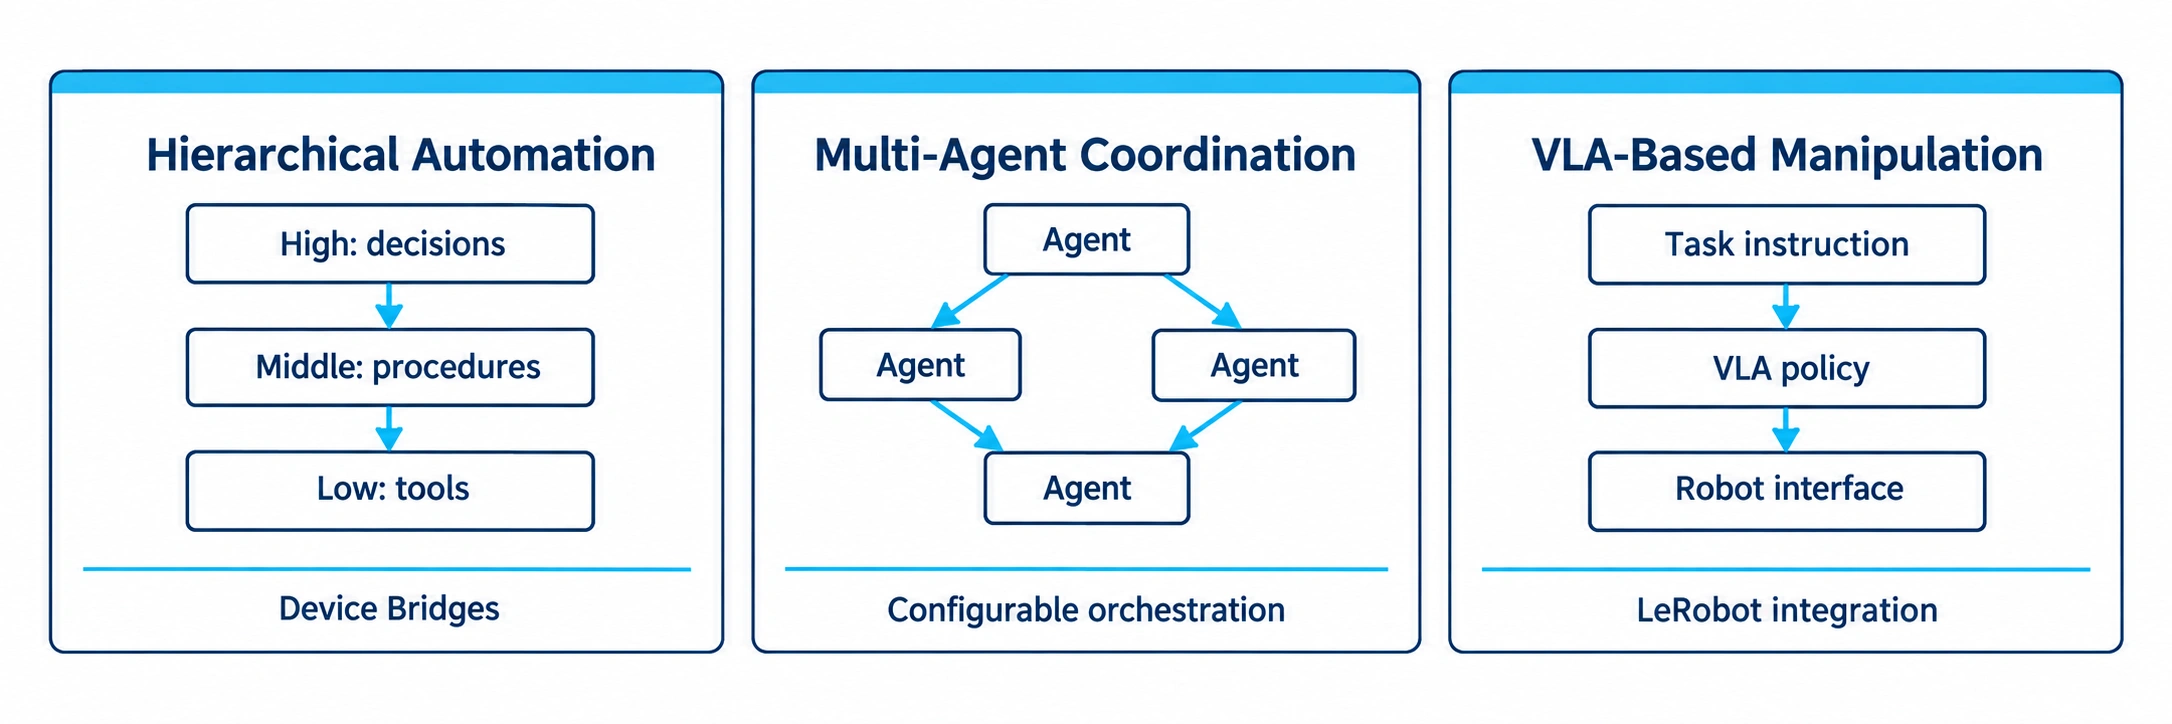
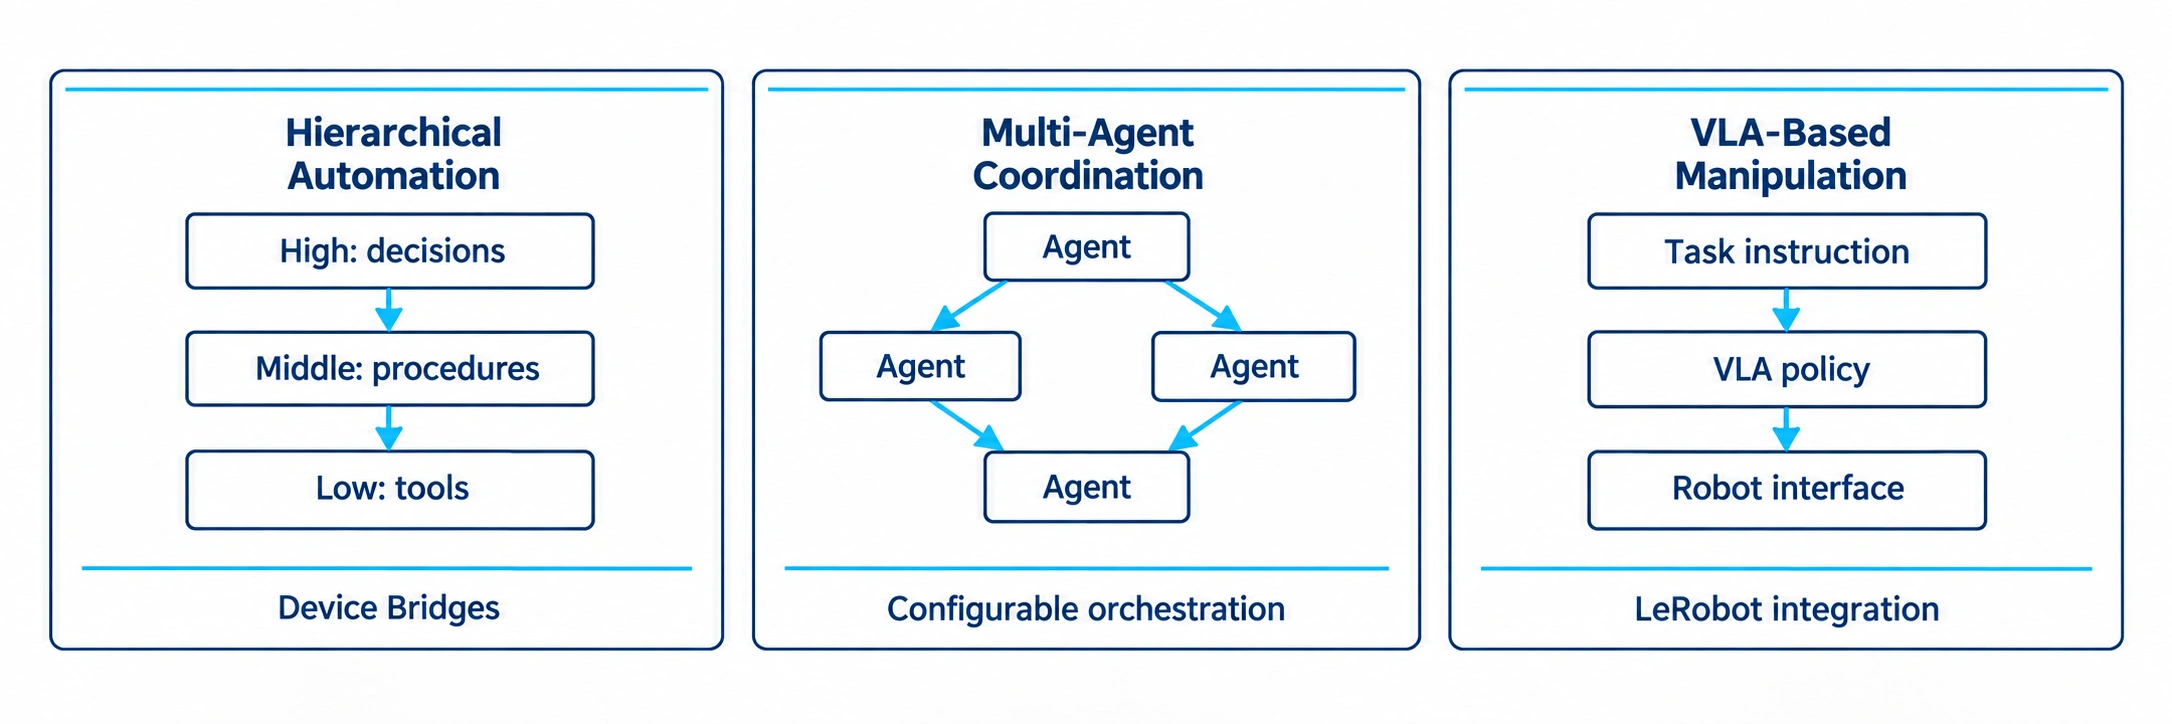
docs: refine README heading hierarchy and contribution typography

diff --git a/docs/assets/presentation/README.md b/docs/assets/presentation/README.md
@@ -25,7 +25,7 @@ images or numerical results were synthesized for the paper evidence package.
 |---|---|---|
 | Multi-agent laboratory transformation | [Sunburst prompt](laboratory-transformation-sunburst.txt) · [Flat-style refinement](laboratory-transformation-sunburst-refinement.txt) · [Diagonal layout and bullet alignment](laboratory-transformation-sunburst-diagonal.txt) | Root README Graphical Abstract, Korean overview and paper introduction; approved image retained unchanged |
 | SDL adoption barriers | [Motivation prompt](motivation-contribution-sunburst.jsonl), entry 1 | Root README Motivation; conceptual barriers, not a quantitative cost comparison |
-| Three system contributions | [Horizontal three-module redesign](system-contribution-horizontal.txt) | Root README immediately above the contribution table; three parallel contributions, not sequential runtime stages |
+| Three system contributions | [Horizontal three-module redesign](system-contribution-horizontal.txt) · [Two-line typography refinement](system-contribution-typography.txt) | Root README immediately above the contribution table; three parallel contributions, not sequential runtime stages |
 | Framework overview, agent architecture, integration architecture | [Sunburst paper-figure prompts](sunburst-paper-figures.jsonl), entries 1–3 | Root README System Architecture |
 | Ten agent role diagrams | [Sunburst paper-figure prompts](sunburst-paper-figures.jsonl), entries 4–13; [Design handoff refinement](sunburst-design-handoff-refinement.txt) | [Agent references](../../agents/README.md); existing image paths retained |
 
@@ -48,7 +48,9 @@ Graphical Abstract or the three detailed architecture overviews.
 - Role-specific layouts: peer-agent orchestration, terminal workflow review, and parallel FEM are not forced into one sequential template.
 
 The System Contribution strip intentionally uses three equal outlined modules,
-as requested for this figure only. Other paper figures retain their open layouts.
+as requested for this figure only. Matching two-line headings, aligned diagram
+baselines, and thin cyan accent rules establish its typographic hierarchy.
+Other paper figures retain their open layouts.
 
 The prompts were checked against the corresponding agent references. They retain
 optimizer authority over coordinates, capture before Vision review, terminated

diff --git a/README.md b/README.md
@@ -70,7 +70,9 @@ equipment and working environment.
 
 *Multi-agent orchestration connects existing equipment through device bridges.*
 
-## Motivation — Barriers to Self-Driving Laboratories
+## Motivation
+
+<sub>Barriers to adopting self-driving laboratories.</sub>
 
 Building a self-driving laboratory remains a costly integration project, not
 simply a matter of adding an AI model. Existing laboratories contain useful
@@ -109,12 +111,12 @@ simple hardware, advanced software coordination, and experiment feedback through
 explicit agent handoffs. The current [experimental cycle](docs/paper/03_closed_loop_method.md)
 is one configured application of that architecture.
 
-### System Architecture
+## System Architecture
 
 The framework separates coordination between agents, responsibility within
 agents, and integration with laboratory equipment.
 
-#### Framework — Configurable Orchestration
+### Framework
 
 The Orchestrator translates research intent into agent tasks and coordinates
 their results through a configurable Orchestration Plan. Specialist agents
@@ -125,7 +127,7 @@ contribute capabilities to that plan rather than defining one fixed sequence.
 - Task routing and specialist-agent coordination — [System architecture](docs/paper/02_system_architecture.md).
 - Plan configuration and execution monitoring — [Runtime IDE](docs/runtime/runtime_ide.md).
 
-#### Agents — Decisions, Procedures, and Tools
+### Agents
 
 High-Level control owns task decisions, Middle-Level control supervises
 procedures, and Low-Level tools perform execution. Guardian/Safety and
@@ -136,7 +138,7 @@ stages. LLM decisions use the owning agent's permitted tools and evidence.
 
 - Responsibility levels and shared evidence — [Control model](docs/runtime/three_level_control_model.md).
 
-#### Integration — Reusing Existing Equipment
+### Integration
 
 Agent procedures reach laboratory capabilities through tools and Device
 Bridges. These adapters accommodate learned robot policies, device APIs, and
